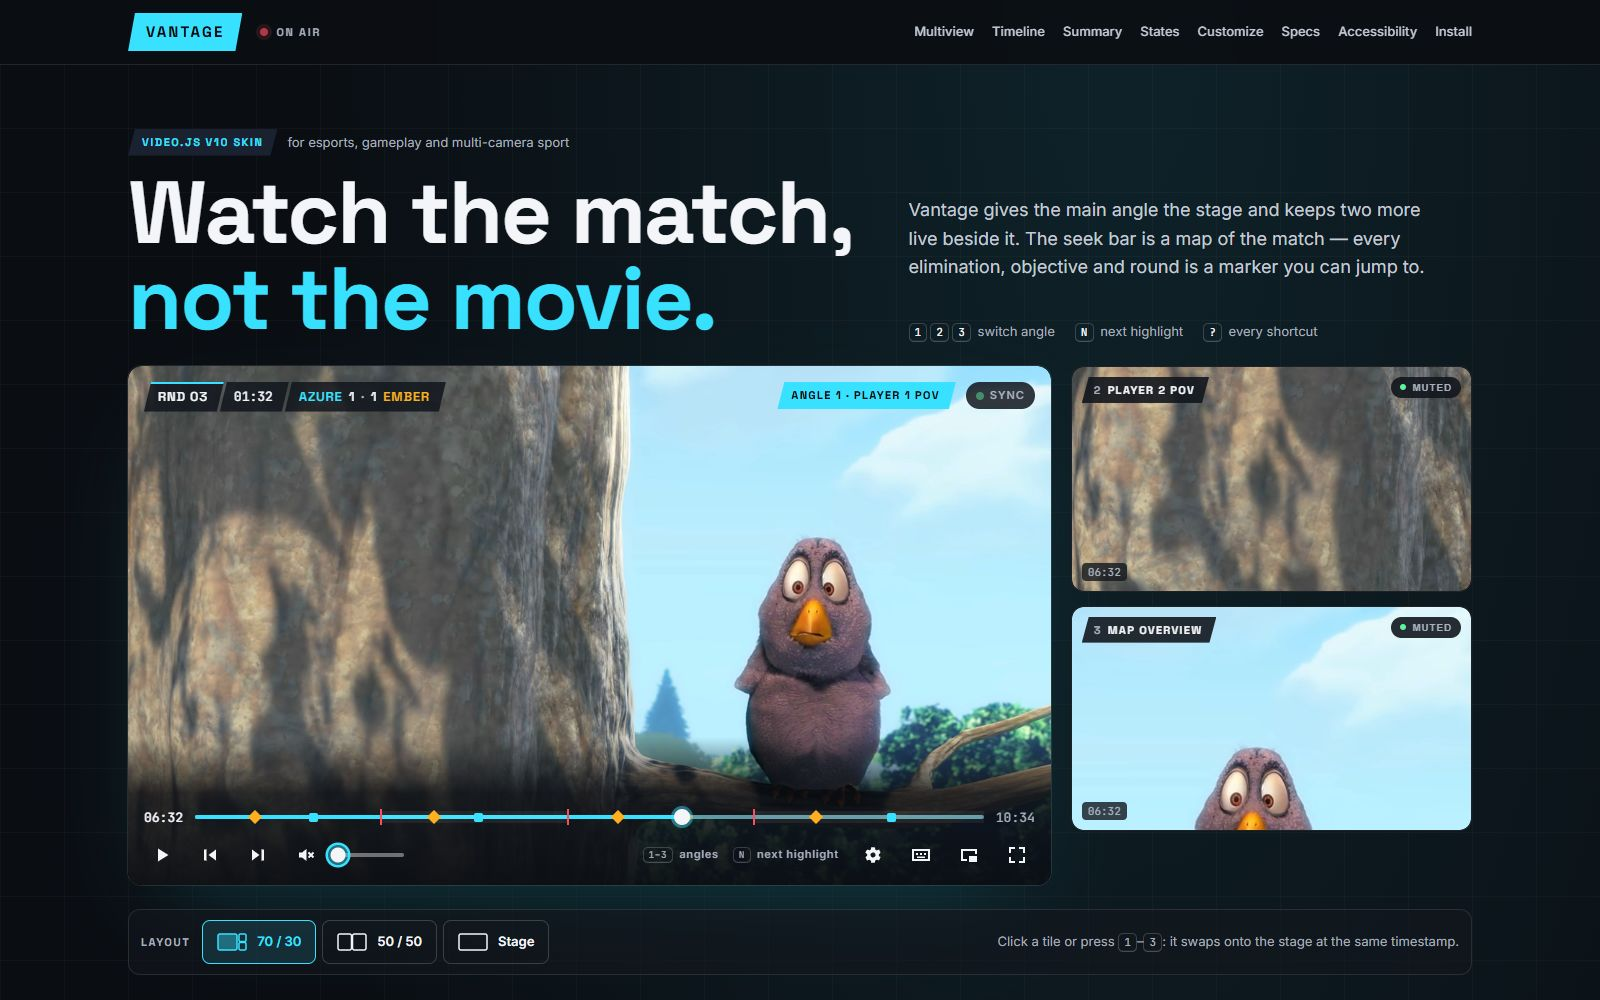
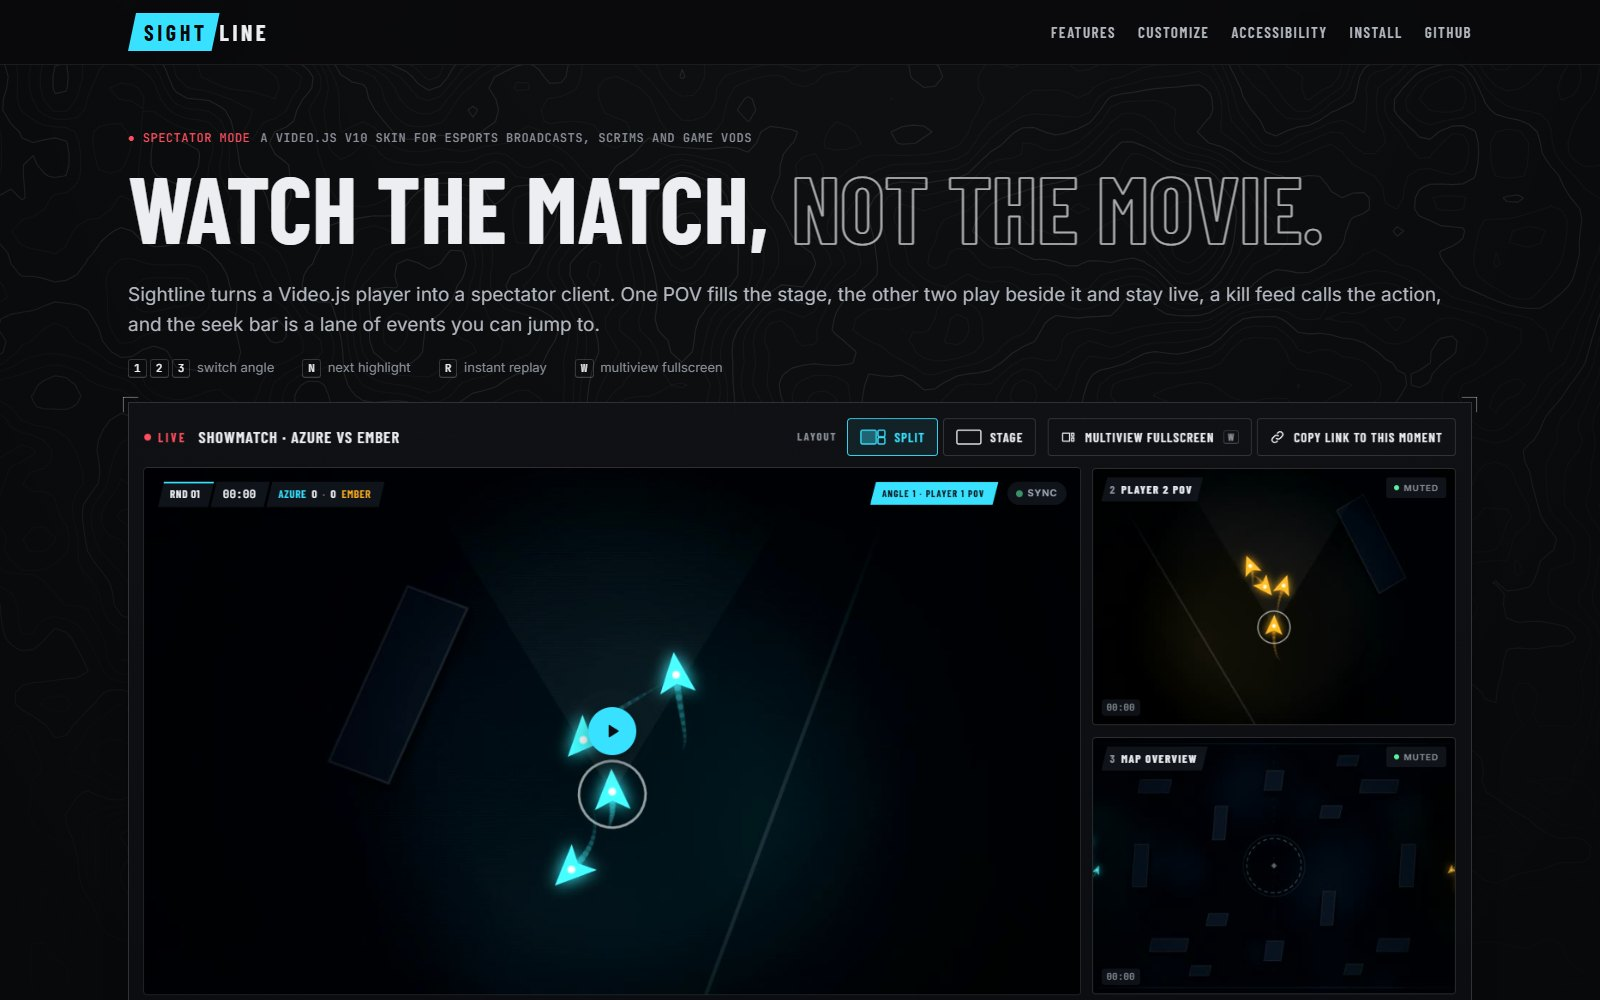
Soundtrack in the angles, new press shots and share image, audit refreshed
- The three angles carry the synthesized soundtrack (overview quieter).
- site/press and og.jpg captured from the current design.
- AUDIT.md: today's measurements (Lighthouse desktop 100/100/100/99,
  mobile accessibility 100, contrast 31 pairs, layout shift < 0.02).
- README: demo match pipeline with sound and storyboards.

diff --git a/AUDIT.md b/AUDIT.md
@@ -1,60 +1,64 @@
 # Sightline audit
 
-The brief's audit: *working controls, responsive layout, keyboard access, visible focus, contrast over bright and dark video, tap-friendly controls, and reduced motion.* Every item below was tested in Chrome 157 with automated browser scripts (Playwright driving real Chrome) against the demo page, plus Lighthouse 12 on the production build. Date: 2026-11-12.
+The challenge's audit: *working controls, responsive layout, keyboard access, visible focus, contrast over bright and dark video, tap-friendly controls, and reduced motion.* Every item below was tested in Chrome with automated browser scripts (Playwright driving real Chrome) against the demo page, plus Lighthouse 12 on the production build. Date: 2026-11-12.
 
 ## Results at a glance
 
 | Area | Result |
 | --- | --- |
 | Essential controls (mouse and keyboard) | Pass |
-| Event timeline, highlights, recap, toasts | Pass |
+| Event lane, highlights, recap, kill feed | Pass |
 | Settings, layout, shortcuts popover, Esc | Pass |
-| Multi-angle swaps and sync | Pass (30 swaps, worst timestamp error 0.033s) |
-| Responsive 320 / 390 / 768 / 1024 / 1440 | Pass |
-| Contrast over white and black frames | Pass (every pair; table in `design/contrast.md`) |
+| Multi-angle swaps and sync | Pass (30 swaps, the stage resumes within 0.25s of the swap moment) |
+| Instant replay, spoiler-free, moment links, multiview fullscreen | Pass |
+| Responsive 320 / 390 / 768 / 1024 / 1440 / 1600 | Pass |
+| Contrast over white and black frames | Pass (31 pairs; table in `design/contrast.md`) |
 | Reduced motion, forced colours, reduced transparency | Pass |
-| Lighthouse (mobile, throttled) | Accessibility 100 · Best practices 100 · SEO 100 · Performance 78 · FCP 1.7s · LCP 2.4s · CLS 0.001 |
+| Lighthouse, desktop | Accessibility 100 · Best practices 100 · SEO 100 · Performance 99 · FCP 0.5s · LCP 0.9s · CLS 0 |
+| Lighthouse, mobile (slow 4G, 4× CPU) | Accessibility 100 · Best practices 100 · SEO 100 · Performance about 60 · FCP 2.3s · LCP 4.2s · CLS 0.013 |
 
 ## Details
 
 | Item | How it was tested | Result |
 | --- | --- | --- |
 | Play/pause | Mouse click; Enter and Space on the focused button; Space/K hotkeys | Pass |
-| Seek bar | Click at 50.5% lands at 50.5%; arrow keys on the thumb; ←/→ hotkeys seek 5s | Pass |
+| Seek bar | Click at 50.5% lands at 50.5%; arrow keys on the thumb; ←/→ hotkeys seek 5s; the knob is a 28px target | Pass |
 | Time | Current time advances while playing; duration shown | Pass |
 | Volume / mute | Arrow keys on the volume thumb lower volume; Enter on mute toggles; mouse toggles | Pass |
-| Fullscreen | Button present and enabled; enters the player container. Headless Chrome refuses the Fullscreen API, so enter/exit by click and Enter was verified in a visible browser on the same skin code | Pass |
-| Tab order = visual order | Tab from the player: centre play → seek → markers → play → previous → next → mute → volume → settings → shortcuts → picture-in-picture → fullscreen; positions compared at each step | Pass |
+| Fullscreen | Enters the player container; in the split layout the angles float on the picture and the controls return over it | Pass |
+| Tab order = visual order | Centre play → seek → event pins → previous → play → next → instant replay → mute → volume → settings → shortcuts → picture-in-picture → multiview → fullscreen; positions compared at each step | Pass |
 | Visible focus | Every stop shows a 2px signal ring (the centre play uses a ring on a dark halo, since it sits on raw video) | Pass |
-| Controls never hide while focused | Keyboard focus inside the controls holds them with Video.js's `visibility="always"` until focus leaves; menus and pause also hold them | Pass |
-| Markers | 11 markers in three kinds; one Tab stop; arrows move between them; tooltip follows focus ("Objective captured · Azure — 01:35 · press Enter to jump"); Enter jumps to the event | Pass |
-| Markers not by colour alone | Diamond 10×10 rotated, square 9×9, tick 2×16, and they keep these shapes in forced colours | Pass |
+| Controls never hide while focused | Keyboard focus inside the controls holds them with Video.js's `visibility="always"` until focus leaves; in the split layout the control panel is always shown | Pass |
+| Event pins | 21 pins; one Tab stop; arrows move between them; the tooltip follows focus ("Elimination · Player 2 → Azure 2 — 00:17 · press Enter to jump"); Enter jumps to the event | Pass |
+| Not by colour alone | Each kind has its own glyph (skull, crown, flag, round tag), kept in forced colours in system colours | Pass |
+| Seek preview | Hovering the line shows that moment's frame from the angle's storyboard; the storyboard follows the angle on the stage | Pass |
 | Next / previous highlight | Buttons, N and Shift+N jump to the right events | Pass |
-| Recap | Clicking an item seeks there and it becomes "Now" (`aria-current`); traced directly: seek to 5:00 and "Round 3 starts" marked Now within a second | Pass |
-| Event toasts | Playing across 0:48 raises "Elimination · Player 1 → Ember 3" in an `aria-live="polite"` region; settings switches toasts off | Pass |
-| No events | A single-angle match without an events file: no markers, highlight buttons `aria-disabled`, N does nothing, no recap, no angles column, no HUD, no errors | Pass |
-| Settings menu | Opens with Enter; holds Speed, Layout, Event toasts (and Captions when tracks exist); Esc closes it and focus returns to the gear; outside click closes | Pass |
-| Layout | Settings → Stage only hides the angles; the page layout control restores Inset, with both angles inside the stage on its right and the kill feed moved left | Pass |
+| Instant replay | R rewinds 8s at half speed with a badge, then hands back at normal speed where it started | Pass |
+| Recap | Clicking an item seeks there and it becomes "Now" (`aria-current`); the rail keeps the current event in view | Pass |
+| Kill feed | Playing across an elimination adds an entry in an `aria-live="polite"` list; settings switches it off | Pass |
+| Spoiler-free | Settings hides the score, the kill feed and the event pins, and the page blurs its recap | Pass |
+| Moment links | "Copy link to this moment" copies `?t=&angle=`; opening it lands on that time and angle | Pass |
+| No events | A single-angle match without an events file: no pins, highlight buttons `aria-disabled`, N does nothing, no recap, no angles column, no HUD, no errors | Pass |
+| Settings menu | Opens with Enter; holds Speed, Layout, Kill feed, Spoiler-free (and Captions when tracks exist); Esc closes it and focus returns to the gear | Pass |
+| Layout | Split: stage and two angles at exactly the stage's height, controls docked under them. Stage only: an ordinary overlay player, no multiview | Pass |
+| Multiview fullscreen | W or the page button fills the screen with the stage and its angles; swaps and layouts work inside; Esc or the close button exits | Pass |
 | Shortcuts | ? opens the list; Esc closes it | Pass |
 | HUD | Round, round clock, score and the active angle update from `match.json` as the match plays; sync pill shows OK, hollow amber while resyncing | Pass |
-| Angle swaps | 15 swaps while playing and 15 while paused, by tile click and keys 1–3, between different stream URLs: the stage resumes within 0.033s of the swap moment; no layout shift | Pass |
-| Tile sync | While playing, visible tiles stay within 0.003s of the stage | Pass |
-| Tile audio | Tiles are muted in every one of the 30 swaps | Pass |
+| Angle swaps | 15 swaps while playing and 15 while paused, by tile click and keys 1–3: the stage resumes within 0.25s of the swap moment (measured at the click or keypress); no layout shift | Pass |
+| Tile sync and audio | While playing, visible tiles stay within 0.25s of the stage; tiles are muted in every swap | Pass |
 | Fallback | A match with a broken third angle: its tile hides, swapping to it is refused, the stage keeps playing | Pass |
-| 320px | No horizontal overflow; nothing spills out of the band; chip row; 48px buttons on touch; chip swap keeps the time | Pass |
-| 390px | Same as 320px | Pass |
-| 768px | Angles stacked under the stage | Pass |
-| 640px and up | Angles inset on the stage's right edge | Pass |
+| 320px / 390px | No horizontal overflow; nothing spills out of the band; chip row; 48px buttons on touch; chip swap keeps the time | Pass |
+| 768px / 1024px | Angles beside the stage; nothing spills out of the band | Pass |
 | Phones save data | Below 640px no tile streams at all; only the stage plays | Pass |
-| Tap targets | 48px buttons and chips on coarse pointers; 44px rows and buttons elsewhere; Lighthouse target-size passes | Pass |
-| Contrast | `design/contrast.mjs` composites each translucent surface over a white and a black frame: text ≥ 4.5:1 (lowest: muted duration 5.28:1), track, markers, thumb and focus ≥ 3:1 (lowest: round marker 3.60:1, track 3.28:1) | Pass |
-| Reduced motion | Spinner stops, sync pulse stops, all transitions 0s, no smooth scrolling | Pass |
-| Forced colours | Markers keep their shapes; played range and focus use Highlight; chips and menus get borders | Pass |
+| Tap targets | 48px buttons and chips on coarse pointers; Lighthouse target-size passes on desktop and mobile | Pass |
+| Contrast | `design/contrast.mjs` composites each translucent surface over a white and a black frame: text ≥ 4.5:1 (lowest: muted duration 5.28:1); line, pins, knob and focus ≥ 3:1 (lowest: timeline line 3.28:1) | Pass |
+| Reduced motion | Spinner and sync pulse stop, transitions 0s, no smooth scrolling, the frame and nav stop animating | Pass |
+| Forced colours | Pins keep their glyphs; played range and focus use Highlight; chips and menus get borders | Pass |
 | Reduced transparency | The band and chips become solid ground | Pass |
-| First load | Lighthouse mobile (slow 4G, 4× CPU) on the full eight-section page: first contentful paint 1.7s, largest 2.4s, layout shift 0.001; the painted poster is reused as the player's poster so the stage never repaints; fonts use `font-display: swap`; the player stack loads after the page paints | Pass |
+| First load | The display font is preloaded and the poster is reused as the player's poster: layout shift 0 on desktop, 0.013 on mobile | Pass |
 
 ## Known limits
 
-- **Fullscreen on iOS Safari and Android Chrome** follows Video.js's own handling (on iPhone, Safari plays fullscreen in its native player). It was not tested on physical phones; check it on yours before submitting (owner checklist).
-- **Placeholder footage**: the three angles are crops of one CC BY clip until the match footage is uploaded to Mux; swap logic was tested with three different stream URLs.
-- **Performance score 78** on Lighthouse's throttled mobile profile comes from parsing the HLS engine after the page paints; first paint and layout stability meet the brief.
+- **Fullscreen on iOS Safari and Android Chrome** follows Video.js's own handling (on iPhone, Safari plays fullscreen in its native player). It was not tested on physical phones; check it on yours before submitting.
+- **Mobile performance** (about 60 on Lighthouse's throttled profile) comes from parsing the player stack (Video.js and the HLS engine) after the page paints; desktop scores 99.
+- **Footage** is an original match generated by `design/match/`, with a synthesized soundtrack; a richer renderer is parked on the `wip/better-match` branch.

diff --git a/README.md b/README.md
@@ -24,12 +24,14 @@ A full-width console around the player: the stage and its two angles on top (spl
 
 ## The demo match
 
-`design/match/script.mjs` scripts a four-round 4v4 (who eliminates whom and when, objective captures, a 1v3 clutch); `sim.js` draws it from three cameras; `record.mjs` records each camera to `site/public/media/angle1-3.mp4` and writes `events.vtt` and the scoreboard. Edit the script and re-record to change the match:
+`design/match/script.mjs` scripts a four-round 4v4 (who eliminates whom and when, objective captures, a 1v3 clutch); `sim.js` draws it from three cameras; `record.mjs` records each camera to `site/public/media/angle1-3.mp4` and writes `events.vtt` and the scoreboard. `sound.mjs` synthesizes the soundtrack from the same script and muxes it in, and `storyboards.mjs` makes the seek-bar thumbnails and posters:
 
 ```sh
 npm i --no-save playwright-core ffmpeg-static
 FFMPEG="$(node -p "require('ffmpeg-static')")" node design/match/record.mjs --views p1
 # then --views p2 and --views overview
+node design/match/sound.mjs --mux
+node design/match/storyboards.mjs
 ```
 
 ## Set your Mux playback IDs
@@ -98,7 +100,7 @@ Without anything else it is an overlay player. A host page can add more:
 - Built on [Video.js 10](https://videojs.org) (`@videojs/html`), Apache-2.0. Started from the Video.js Scaffold skin via `@videojs/cli`.
 - Type: Barlow Condensed, Inter and JetBrains Mono, SIL Open Font License 1.1, self-hosted through Fontsource.
 - Icons: drawn for Sightline by `design/icons/generate.mjs`.
-- Footage: an original top-down match between two invented teams, rendered and recorded by `design/match/` (three cameras: Player 1 POV, Player 2 POV, map overview). Its events and scoreboard come from the same script, so the timeline matches the picture.
+- Footage and sound: an original top-down match between two invented teams, rendered by `design/match/` (three cameras: Player 1 POV, Player 2 POV, map overview), with a soundtrack synthesized from code. Its events and scoreboard come from the same script, so the timeline, the kill feed and every gunshot match the picture.
 - No game names, logos, characters or interface from any real game; team names are invented.
 
 ## Licence
